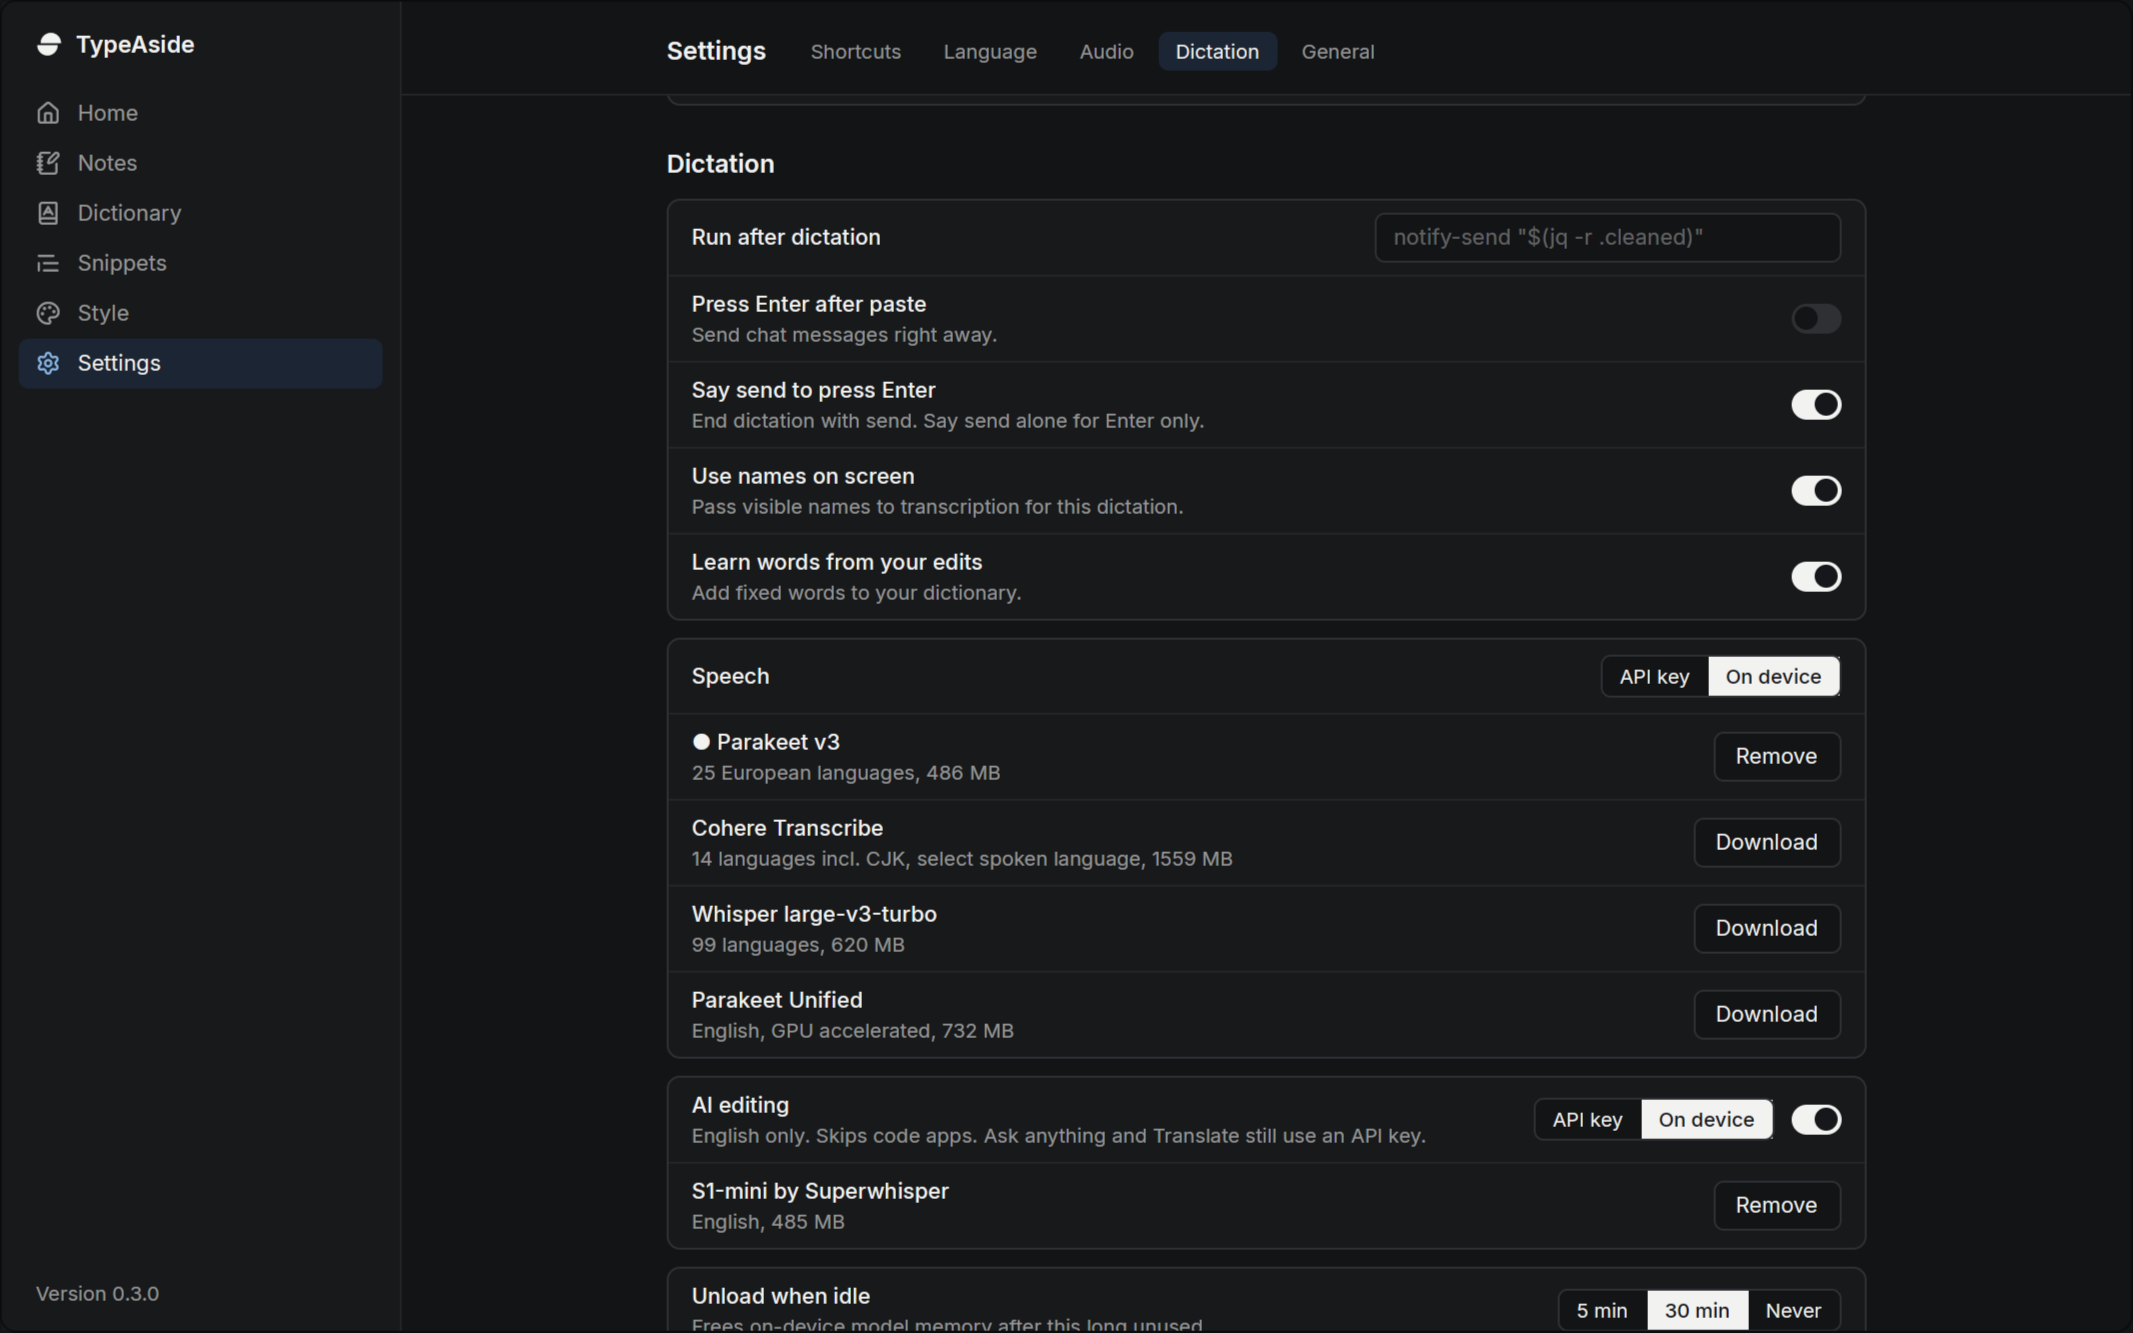
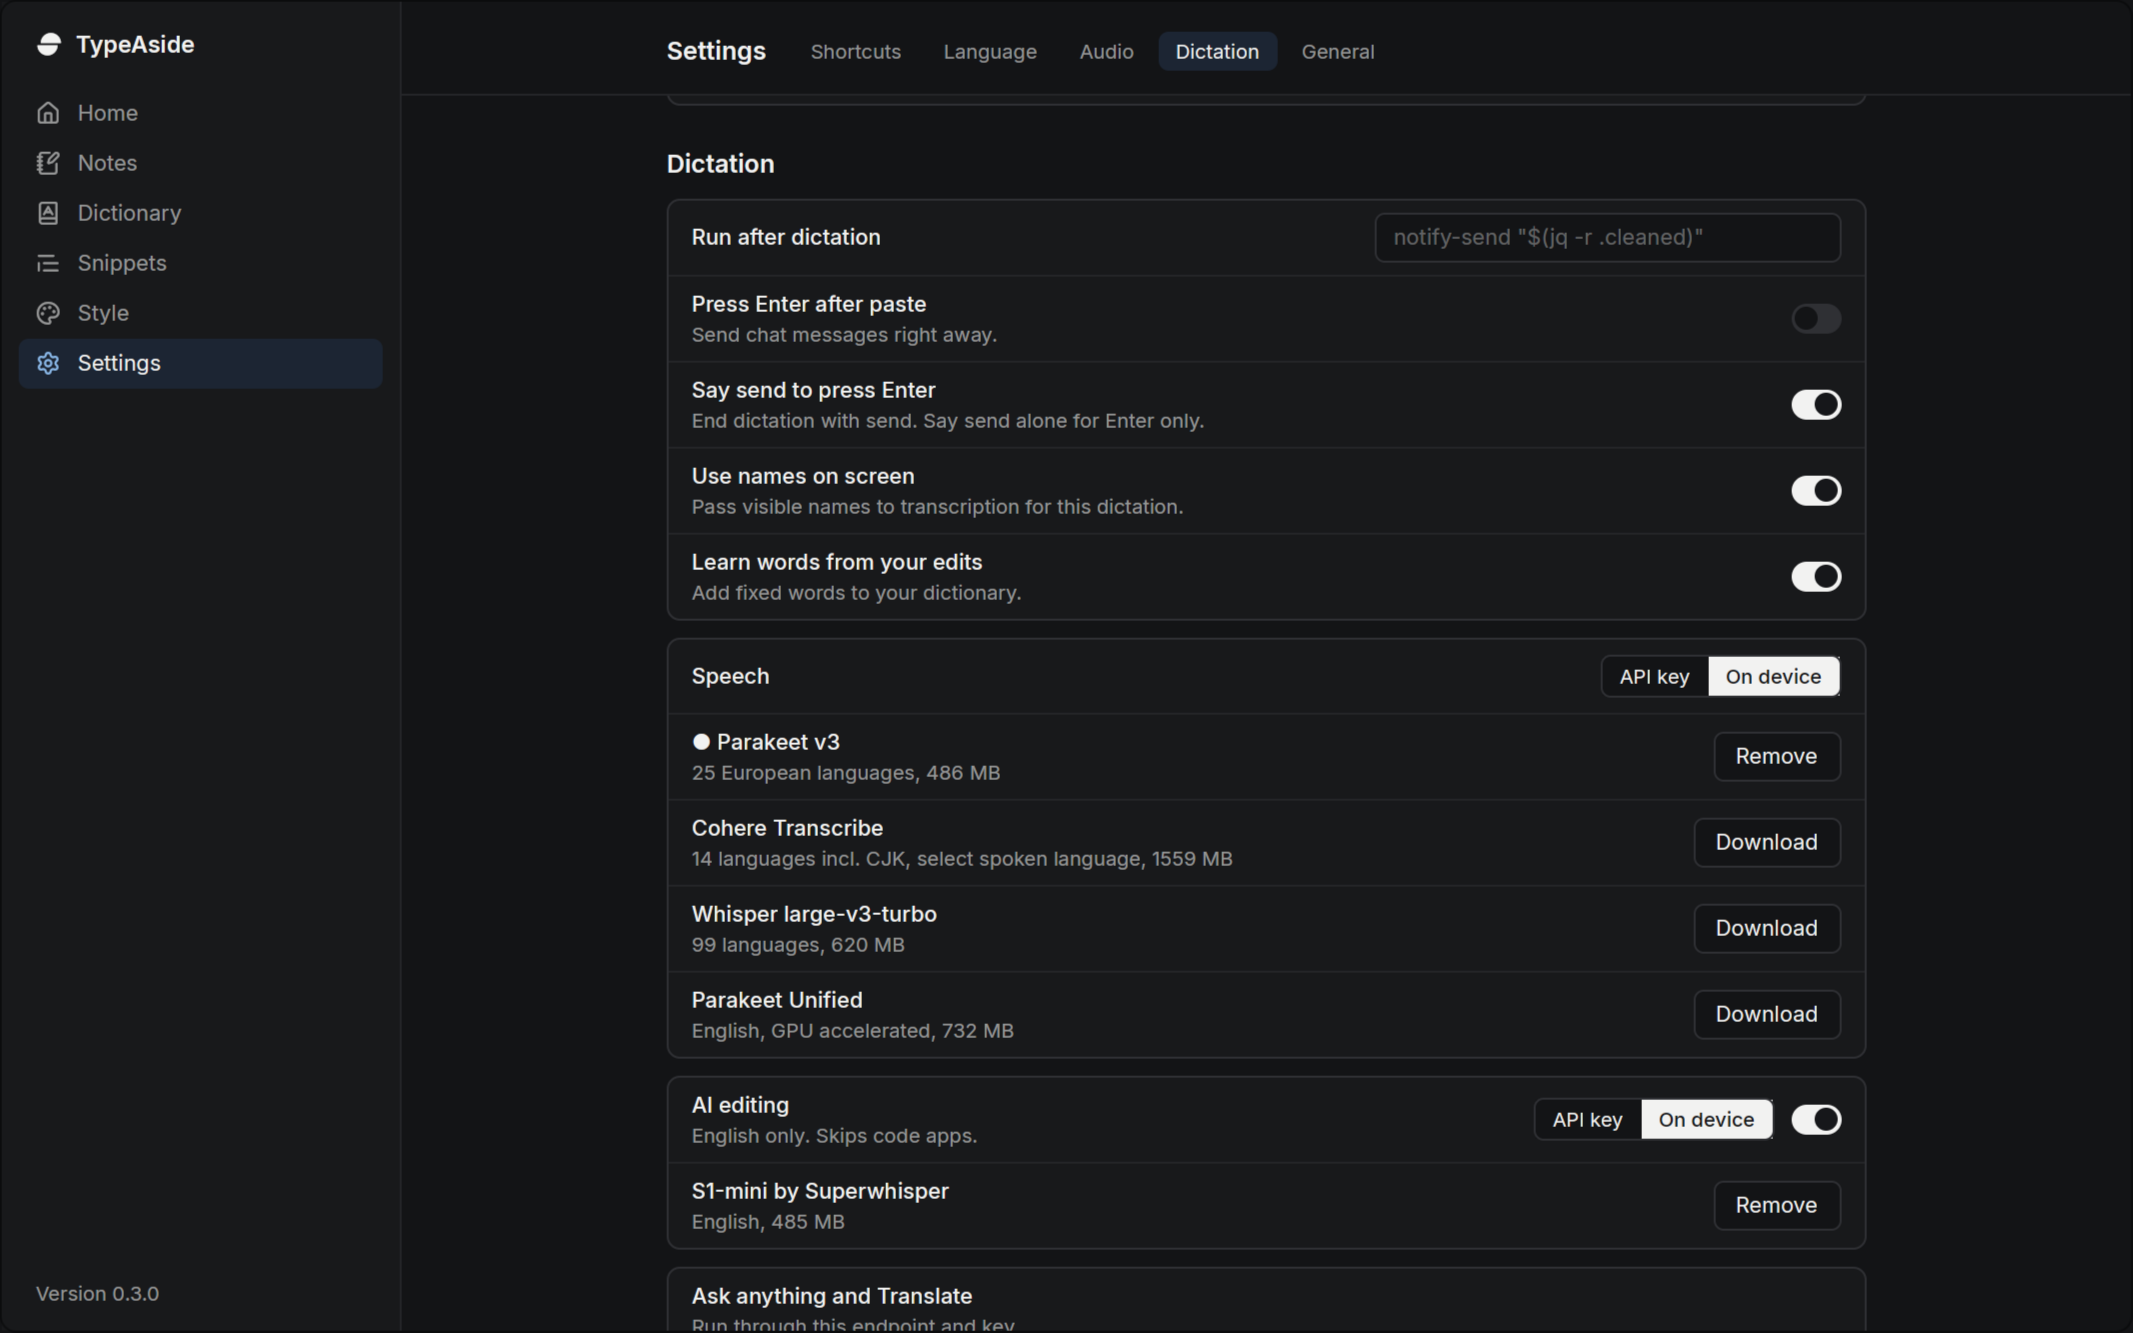
fix(desktop): reachable command key with on-device editing, honest practice caption (#202)
* fix(desktop): reachable command key with on-device editing, honest practice caption

* docs: retake settings screenshot with the Ask anything panel

---------

Changed region(s): [[0.3094, 0.9535, 0.557, 1.0], [0.7426, 0.9535, 0.8664, 1.0], [0.4641, 0.8305, 0.6807, 0.8612]]

diff --git a/src/ui/settings.rs b/src/ui/settings.rs
@@ -217,13 +217,11 @@ impl SettingsInputs {
         let endpoints = [
             (s.config.transcription == Source::OwnKey)
                 .then(|| (false, s.config.stt.base_url.clone(), stt.clone())),
-            (s.config.cleanup.source == Source::OwnKey).then(|| {
-                (
-                    true,
-                    s.config.cleanup.endpoint.base_url.clone(),
-                    editing.clone(),
-                )
-            }),
+            Some((
+                true,
+                s.config.cleanup.endpoint.base_url.clone(),
+                editing.clone(),
+            )),
         ];
         let available: Vec<_> = s
             .devices
@@ -1143,12 +1141,17 @@ impl MainWindow {
             let mut editing = vec![
                 Setting::new("AI editing")
                     .description(if local_editing {
-                        "English only. Skips code apps. Ask anything and Translate still use an API key."
+                        "English only. Skips code apps."
                     } else {
                         "Fixes fillers, punctuation and lists."
                     })
                     .when(available && c.cleanup.enabled, |row| {
-                        row.child(source("editing-source", c.cleanup.source, |c, v| c.cleanup.source = v, cx))
+                        row.child(source(
+                            "editing-source",
+                            c.cleanup.source,
+                            |c, v| c.cleanup.source = v,
+                            cx,
+                        ))
                     })
                     .child(self.toggle("editing", c.cleanup.enabled, Toggle::Editing, cx)),
             ];
@@ -1206,18 +1209,32 @@ impl MainWindow {
                                 })),
                         ),
                 );
-            } else if c.cleanup.enabled {
-                editing.extend([
-                    Setting::new("Endpoint").child(input(&self.settings.cleanup_endpoint, p)),
-                    Setting::new("Model").child(model_field(
-                        &self.settings.cleanup_models,
-                        &self.settings.cleanup_model,
-                        p,
-                    )),
-                    Setting::new("API key").child(input(&self.settings.cleanup_key, p)),
-                ]);
             }
-            models.push(panel(editing, p));
+            // Ask anything and Translate always use this endpoint, so it stays reachable
+            // when AI editing runs on device or is off.
+            let chat = [
+                Setting::new("Endpoint").child(input(&self.settings.cleanup_endpoint, p)),
+                Setting::new("Model").child(model_field(
+                    &self.settings.cleanup_models,
+                    &self.settings.cleanup_model,
+                    p,
+                )),
+                Setting::new("API key").child(input(&self.settings.cleanup_key, p)),
+            ];
+            if c.cleanup.enabled && !local_editing {
+                editing.extend(chat);
+                models.push(panel(editing, p));
+            } else {
+                models.push(panel(editing, p));
+                models.push(panel(
+                    std::iter::once(
+                        Setting::new("Ask anything and Translate")
+                            .description("Run through this endpoint and key."),
+                    )
+                    .chain(chat),
+                    p,
+                ));
+            }
         }
         if local_speech || local_editing {
             models.push(panel(

diff --git a/src/ui/onboarding.rs b/src/ui/onboarding.rs
@@ -197,6 +197,25 @@ fn speech_download(s: &AppState) -> Option<Status> {
     (s.config.transcription == Source::Local && !s.models.contains(&Status::Installed))
         .then(|| s.models[s.config.local_model.index()])
 }
+/// Names only the edits that happened; capitalization or punctuation alone earns no caption.
+fn practice_caption(raw: &str, cleaned: &str) -> Option<&'static str> {
+    let words = |text: &str| {
+        text.split(|c: char| !c.is_alphanumeric())
+            .filter(|word| !word.is_empty())
+            .map(str::to_lowercase)
+            .collect::<Vec<_>>()
+    };
+    let filler = |word: &String| matches!(word.as_str(), "um" | "uh" | "er");
+    let (raw, cleaned) = (words(raw), words(cleaned));
+    let filler_removed = raw.iter().any(filler) && !cleaned.iter().any(filler);
+    let corrected = raw.iter().filter(|word| !filler(word)).count() > cleaned.len();
+    match (filler_removed, corrected) {
+        (true, true) => Some("Filler removed. Your correction kept."),
+        (true, false) => Some("Filler removed."),
+        (false, true) => Some("Your correction kept."),
+        (false, false) => None,
+    }
+}
 fn bars(level: f32, height: f32, count: usize, p: Palette) -> gpui::Div {
     const SHAPE: [f32; 28] = [
         0.15, 0.25, 0.4, 0.55, 0.7, 0.85, 0.95, 1., 0.9, 0.8, 0.95, 0.75, 0.6, 0.8, 0.7, 0.55,
@@ -948,7 +967,7 @@ impl MainWindow {
                     .onboarding_raw
                     .as_ref()
                     .zip(s.onboarding_transcript.as_ref())
-                    .is_some_and(|(a, b)| a != b);
+                    .and_then(|(raw, cleaned)| practice_caption(raw, cleaned));
                 col.child(
                     div()
                         .h(px(56.))
@@ -1056,9 +1075,7 @@ impl MainWindow {
                         .mt(px(10.))
                         .flex()
                         .gap(px(6.))
-                        .when(caption, |d| {
-                            d.child(text("Filler removed. Your correction kept.", 12., p.muted))
-                        })
+                        .children(caption.map(|caption| text(caption, 12., p.muted)))
                         .when(has_result, |d| {
                             d.child(
                                 text("Try again", 12., p.blue)
